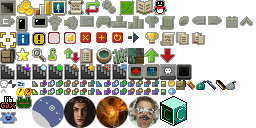
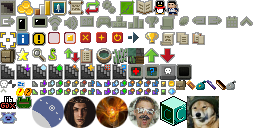
1.0.3:在鸣谢名单中添加迅牢相关，更改支持者界面，制作迅贴图

Changed region(s): [[0.7188, 0.75, 0.875, 1.0], [0.625, 0.0, 0.7188, 0.125]]

diff --git a/core/src/main/java/com/shatteredpixel/shatteredpixeldungeon/scenes/AboutScene.java b/core/src/main/java/com/shatteredpixel/shatteredpixeldungeon/scenes/AboutScene.java
@@ -64,6 +64,32 @@ public class AboutScene extends PixelScene {
 		Component content = list.content();
 		content.clear();
 
+        //*** Xun's Pixel Dungeon Credits ***
+
+        CreditsBlock xun = new CreditsBlock(true, Window.XUN_COLOR,
+        "Xun's Pixel Dungeon",
+        Icons.X_U_N.get(),
+        "Developed by: _迅_\nBased on Shattered Pixel Dungeon's open source",
+        "space.bilibili.com/501176938",
+        "https://space.bilibili.com/501176938");
+        xun.setRect((w - fullWidth)/2f, insets.top + 2, colWidth, 0);
+        if (landscape()) xun.setPos(xun.left() - 6, xun.top());
+        content.add(xun);
+
+        CreditsBlock odg = new CreditsBlock(false, Window.XUN_COLOR,
+        "Sprite Design:",
+        Icons.ODG.get(),
+        "odg",
+        "No link as he requests",
+        "");
+        odg.setSize(colWidth/2f, 0);
+        if (landscape()){
+            odg.setPos(xun.right() + colWidth/4f, xun.top() + (xun.height() - odg.height())/2f);
+        } else {
+            odg.setPos(xun.left() + colWidth/4f, xun.bottom()+5);
+        }
+        content.add(odg);
+
 		//*** Shattered Pixel Dungeon Credits ***
 
 		CreditsBlock shpx = new CreditsBlock(true, Window.SHPX_COLOR,
@@ -73,11 +99,13 @@ public class AboutScene extends PixelScene {
 				"ShatteredPixel.com",
 				"https://ShatteredPixel.com");
 		if (landscape()){
-			shpx.setRect((w - fullWidth)/2f - 6, insets.top + 10, 120, 0);
+			shpx.setRect(xun.left(), xun.bottom() + 12, 120, 0);
 		} else {
-			shpx.setRect((w - fullWidth)/2f, insets.top + 6, 120, 0);
+			shpx.setRect(xun.left(), odg.bottom() + 8, 120, 0);
 		}
 		content.add(shpx);
+
+        addLine(shpx.top() - (landscape() ? 8 : 4), content);
 
 		CreditsBlock alex = new CreditsBlock(false, Window.SHPX_COLOR,
 				"Splash Art & Design:",
@@ -207,7 +235,7 @@ public class AboutScene extends PixelScene {
 				Window.TITLE_COLOR,
 				null,
 				null,
-				"Shattered Pixel Dungeon uses the following sound samples from _freesound.org_:\n\n" +
+				"Xun's Pixel Dungeon uses the following sound samples from _freesound.org_:\n\n" +
 
 				"Creative Commons Attribution License:\n" +
 				"_SFX ATTACK SWORD 001.wav_ by _JoelAudio_\n" +
@@ -228,7 +256,8 @@ public class AboutScene extends PixelScene {
 				"_Pack: Stabbing Stomachs & Crushing Skulls_ by _TheFilmLook_\n" +
 				"_Sheep bleating_ by _zachrau_\n" +
 				"_Lemon,Juicy,Squeeze,Fruit.wav_ by _Filipe Chagas_\n" +
-				"_Lemon,Squeeze,Squishy,Fruit.wav_ by _Filipe Chagas_",
+				"_Lemon,Squeeze,Squishy,Fruit.wav_ by _Filipe Chagas_\n" +
+                "_Hammer on Wood.wav_ by _L.i.Z.e.L.l.E-+_",
 				"www.freesound.org",
 				"https://www.freesound.org");
 		freesound.setRect(transifex.left()-10, transifex.bottom() + 8, colWidth+20, 0);

diff --git a/core/src/main/java/com/shatteredpixel/shatteredpixeldungeon/scenes/SupporterScene.java b/core/src/main/java/com/shatteredpixel/shatteredpixeldungeon/scenes/SupporterScene.java
@@ -33,6 +33,7 @@ import com.shatteredpixel.shatteredpixeldungeon.ui.TitleBackground;
 import com.shatteredpixel.shatteredpixeldungeon.ui.Window;
 import com.shatteredpixel.shatteredpixeldungeon.windows.IconTitle;
 import com.watabou.noosa.Camera;
+import com.watabou.noosa.Image;
 import com.watabou.noosa.NinePatch;
 import com.watabou.noosa.ui.Component;
 import com.watabou.utils.RectF;
@@ -111,6 +112,7 @@ public class SupporterScene extends PixelScene {
 
 		NinePatch bg;
 		RenderedTextBlock text;
+		Image icon;
 
 		@Override
 		protected void createChildren() {
@@ -126,6 +128,10 @@ public class SupporterScene extends PixelScene {
 
 			text = PixelScene.renderTextBlock(message, 6);
 			add(text);
+
+			icon = Icons.get(Icons.X_U_N);
+            add(icon);
+
 		}
 
 		@Override
@@ -135,6 +141,9 @@ public class SupporterScene extends PixelScene {
 
 			text.maxWidth((int)width - bg.marginHor());
 			text.setPos(x + bg.marginLeft(), y + bg.marginTop() + 1);
+
+			icon.y = text.bottom() - icon.height() + 4;
+			icon.x = x + 25;
 
 			height = (text.bottom() + 3) - y;
 

diff --git a/core/src/main/java/com/shatteredpixel/shatteredpixeldungeon/ui/Icons.java b/core/src/main/java/com/shatteredpixel/shatteredpixeldungeon/ui/Icons.java
@@ -45,6 +45,7 @@ public enum Icons {
 	SHPX,
 	JOURNAL,
 	QQ,
+    X_U_N,
 
 	//grey icons, mainly used for buttons, spacing for 16x16
 	EXIT,
@@ -138,7 +139,8 @@ public enum Icons {
 	KRISTJAN,
 	CUBE_CODE,
 	PURIGRO,
-	ARCNOR;
+	ARCNOR,
+    ODG;
 
 	public Image get() {
 		return get( this );
@@ -178,6 +180,9 @@ public enum Icons {
 			case QQ:
 				icon.frame( icon.texture.uvRectBySize( 153, 0, 14, 15 ) );
 				break;
+            case X_U_N:
+                icon.frame( icon.texture.uvRectBySize( 167, 0, 12, 16 ) );
+                break;
 
 			case EXIT:
 				icon.frame( icon.texture.uvRectBySize( 0, 16, 15, 11 ) );
@@ -448,6 +453,10 @@ public enum Icons {
 				icon.frame( icon.texture.uvRectBySize( 160, 96, 27, 30 ) );
 				icon.scale.set(PixelScene.align(0.49f));
 				break;
+            case ODG:
+                icon.frame( icon.texture.uvRectBySize( 187, 96, 32, 32 ) );
+                icon.scale.set(PixelScene.align(0.49f));
+                break;
 
 		}
 		return icon;

diff --git a/core/src/main/java/com/shatteredpixel/shatteredpixeldungeon/ui/RenderedTextBlock.java b/core/src/main/java/com/shatteredpixel/shatteredpixeldungeon/ui/RenderedTextBlock.java
@@ -48,7 +48,7 @@ public class RenderedTextBlock extends Component {
 	private int color = -1;
 	
 	private int hightlightColor1 = Window.TITLE_COLOR;
-    private int hightlightColor2 = 0x44FFFF;
+    private int hightlightColor2 = Window.XUN_COLOR;
 	private boolean highlightingEnabled = true;
 
 	public static final int LEFT_ALIGN = 1;
@@ -180,7 +180,7 @@ public class RenderedTextBlock extends Component {
 	}
 	
 	public synchronized void setHightlighting(boolean enabled, int color1){
-		setHightlighting(enabled, color1, Window.SHPX_COLOR);
+		setHightlighting(enabled, color1, Window.XUN_COLOR);
 	}
 
     public synchronized void setHightlighting(boolean enabled, int color1, int color2){

diff --git a/core/src/main/java/com/shatteredpixel/shatteredpixeldungeon/ui/Window.java b/core/src/main/java/com/shatteredpixel/shatteredpixeldungeon/ui/Window.java
@@ -51,6 +51,7 @@ public class Window extends Group implements Signal.Listener<KeyEvent> {
 	public static final int WHITE = 0xFFFFFF;
 	public static final int TITLE_COLOR = 0xFFFF44;
 	public static final int SHPX_COLOR = 0x33BB33;
+    public static final int XUN_COLOR = 0xC600FF;
 	
 	public Window() {
 		this( 0, 0, Chrome.get( Chrome.Type.WINDOW ) );
